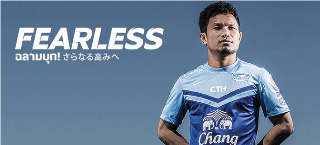
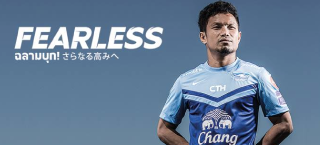
edit image layout
#105

diff --git a/src/scss/fanzone/products/_main.scss b/src/scss/fanzone/products/_main.scss
@@ -2,7 +2,7 @@
 
 .cover, .image {
     width: 100%;
-    height: 200px;
+    height: 170px;
     background-color: #f0f0f0;
 }
 
@@ -21,6 +21,7 @@
         background-color: #0088cf;
 
         .title {
+            padding: 6px 0;
             font-size: 20px;
             font-weight: bold;
         }
@@ -36,8 +37,8 @@
     .detail {
         position: relative;
         width: 100%;
-        height: 187px;
-        min-height: 187px;
+        height: 146px;
+        min-height: 146px;
         background-size: cover;
         background-repeat: no-repeat;
         background-color: #f0f0f0;
@@ -47,6 +48,13 @@
         position: absolute;
         bottom: 0;
         left: 0;
+        z-index: 1001;
+    }
+
+    .shadow {
+        position: relative;
+        box-shadow: 0px 0px 80px 60px rgba(0, 0, 0, 0.6);
+        z-index: 1000;
     }
 
     .name, .price {
